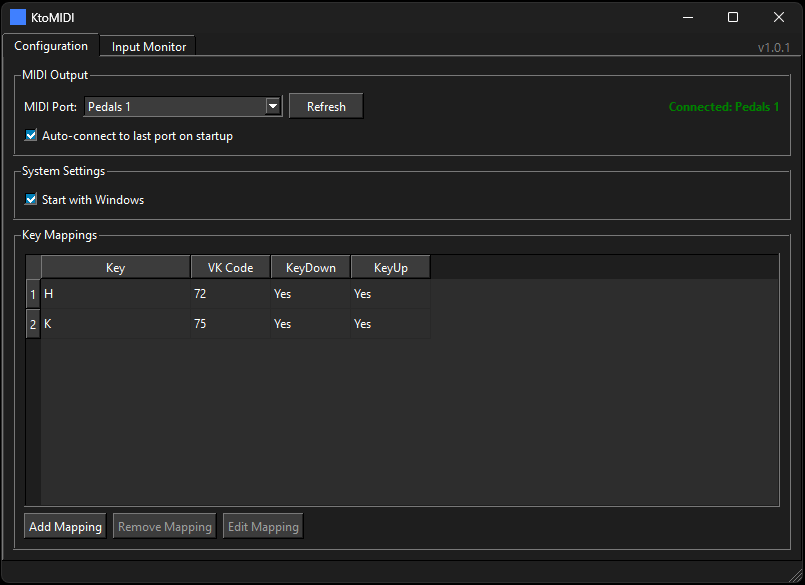
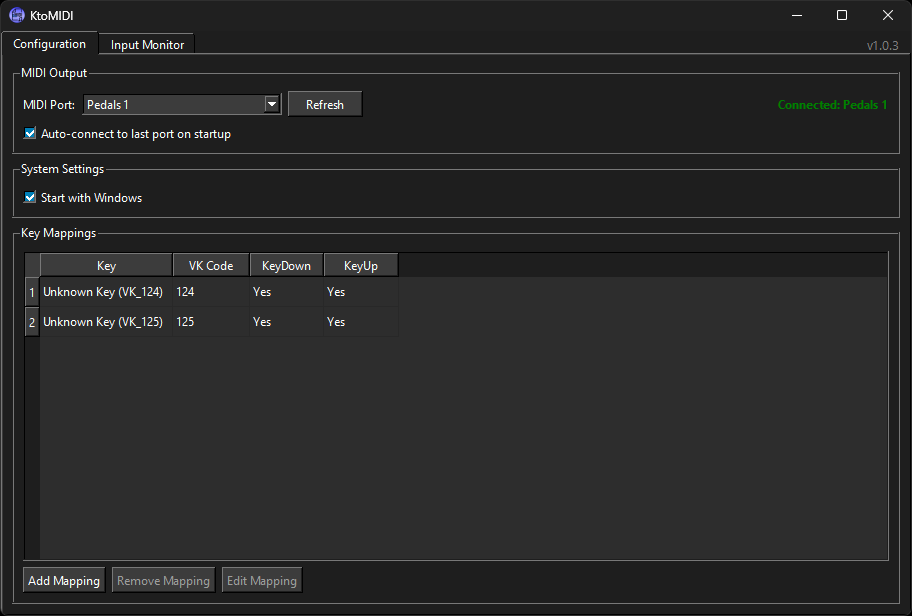
Bump version to 1.0.3, enhance build script to terminate running instances, and improve UI interaction

Changed region(s): [[0.0, 0.0, 1.0, 1.0], [0.4348, 0.4923, 0.4658, 0.5231], [0.2795, 0.5231, 0.3106, 0.5538]]

diff --git a/src/MainWindow.cpp b/src/MainWindow.cpp
@@ -100,7 +100,7 @@ void MainWindow::setupUI()
     resize(800, 600);
     setMinimumSize(600, 400);
     
-    statusBar()->showMessage("Ready");
+    setStatusBar(nullptr);
     
     m_tabWidget = new QTabWidget(this);
     
@@ -382,7 +382,6 @@ void MainWindow::onMidiPortOpened(const QString &portName)
 {
     m_midiStatusLabel->setText(QString("Connected: %1").arg(portName));
     m_midiStatusLabel->setStyleSheet("color: green; font-weight: bold;");
-    statusBar()->showMessage(QString("MIDI: Connected to %1").arg(portName), STATUS_MESSAGE_TIMEOUT_MS);
     saveSettings();
 }
 
@@ -390,7 +389,6 @@ void MainWindow::onMidiPortClosed()
 {
     m_midiStatusLabel->setText("Not connected");
     m_midiStatusLabel->setStyleSheet("color: red; font-weight: bold;");
-    statusBar()->showMessage("MIDI: Disconnected", STATUS_MESSAGE_TIMEOUT_MS);
     saveSettings();
 }
 
@@ -575,6 +573,7 @@ void MainWindow::removeKeyMapping()
     m_keyMapping->removeMapping(vkCode);
     updateMappingTable();
     
+    m_mappingTable->clearSelection();
     m_removeMappingButton->setEnabled(false);
     m_editMappingButton->setEnabled(false);
 }
@@ -659,6 +658,7 @@ bool MainWindow::eventFilter(QObject *watched, QEvent *event)
 
         bool clickedInsideMappingTable = false;
         bool clickedInsideMappingDialog = false;
+        bool clickedOnMappingButton = false;
 
         if (clickedWidget) {
             if (m_mappingTable && (m_mappingTable == clickedWidget || m_mappingTable->isAncestorOf(clickedWidget))) {
@@ -667,9 +667,12 @@ bool MainWindow::eventFilter(QObject *watched, QEvent *event)
             if (m_currentMappingDialog && (m_currentMappingDialog == clickedWidget || m_currentMappingDialog->isAncestorOf(clickedWidget))) {
                 clickedInsideMappingDialog = true;
             }
+            if (clickedWidget == m_addMappingButton || clickedWidget == m_removeMappingButton || clickedWidget == m_editMappingButton) {
+                clickedOnMappingButton = true;
+            }
         }
 
-        if (!clickedInsideMappingTable && !clickedInsideMappingDialog) {
+        if (!clickedInsideMappingTable && !clickedInsideMappingDialog && !clickedOnMappingButton) {
             if (m_mappingTable && m_mappingTable->selectionModel() && m_mappingTable->selectionModel()->hasSelection()) {
                 m_mappingTable->clearSelection();
                     m_mappingTable->setCurrentCell(-1, -1);

diff --git a/src/main.cpp b/src/main.cpp
@@ -30,6 +30,9 @@ int main(int argc, char *argv[])
 {
     QApplication app(argc, argv);
     
+    app.setStyle("Windows");
+    app.setStyleSheet("QWidget { outline: none; } QWidget:focus { outline: none; }");
+    
     QSharedMemory sharedMemory(SINGLE_INSTANCE_KEY);
     if (!sharedMemory.create(1)) {
         QMessageBox::warning(nullptr, APP_NAME,
